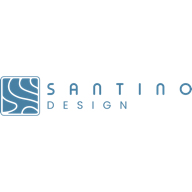
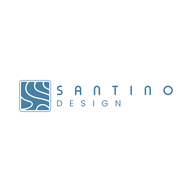
Publicación 2026-10-12 21:31

diff --git a/app.js b/app.js
@@ -188,8 +188,8 @@ async function salir() { await sb.auth.signOut(); yo = null; location.hash = '';
 window.addEventListener('hashchange', () => { if (yo) render(); });
 function barra(activa) {
   const links = yo.rol === 'operacion'
-    ? [['#/taller', 'Lista'], ['#/ruta', 'Ruta']]
-    : [['#/lista', 'Lista'], ['#/tablero', 'Tablero'], ['#/panel', 'Panel'], ['#/clientes', 'Clientes'], ['#/bandeja', 'Bandeja']];
+    ? [['#/taller', 'Lista'], ['#/ruta', 'Ruta'], ...(yo.ve_compras ? [['#/compras', 'Compras']] : [])]
+    : [['#/lista', 'Lista'], ['#/tablero', 'Tablero'], ['#/compras', 'Compras'], ['#/panel', 'Panel'], ['#/clientes', 'Clientes'], ['#/bandeja', 'Bandeja']];
   return `<div class="barra"><a class="marca" href="${links[0][0]}" title="Santino Design · Pedidos"><img src="logo.png" alt="Santino Design" class="logo-barra"></a><nav class="nav">${links.map(([h, t]) => `<a href="${h}" class="${activa === h ? 'activo' : ''}">${t}</a>`).join('')}</nav><div class="espacio"></div><span id="extra-barra" style="display:flex;gap:8px;flex-wrap:wrap;align-items:center"></span><button class="avatar" id="btn-salir" title="${esc(yo.nombre)} · salir">${esc(yo.nombre[0])}</button></div>`;
 }
 async function render() {
@@ -204,6 +204,7 @@ async function render() {
     else if (h === '#/clientes' && !esOp) await vClientes();
     else if (h === '#/bandeja' && !esOp) await vBandeja();
     else if (h === '#/ruta') await vRuta();
+    else if (h === '#/compras' && (!esOp || yo.ve_compras)) await vCompras();
     else if (h === '#/imprimir-listado') await vImprimirListado();
     else if (h === '#/taller' || esOp) await vLista();
     else if (h === '#/clave') vClave();
@@ -886,4 +887,45 @@ function activarArrastreHorizontal(env) {
   env.addEventListener('mouseup', soltar); env.addEventListener('mouseleave', soltar);
   env.addEventListener('click', ev => { if (movido) { ev.stopPropagation(); ev.preventDefault(); movido = false; } }, true);
   if (!window._flechasTabla) { window._flechasTabla = true; document.addEventListener('keydown', ev => { const t = $('#tabla'); if (!t || ev.target.closest('input,select,textarea') || !['ArrowLeft', 'ArrowRight'].includes(ev.key)) return; t.scrollLeft += ev.key === 'ArrowRight' ? 160 : -160; ev.preventDefault(); }); }
+}
+
+/* ---------- Compras (12-oct-2026, versión rápida): piezas compradas (vidrio, piedra, sillas, sofás) por proveedor ----------
+   Toda pieza con área Vidrio/compras de un pedido pendiente aparece aquí sola. Se marcan las del mismo proveedor, "Armar pedido"
+   genera el texto para WhatsApp en el formato del proveedor, y al confirmar quedan como Pedido con fecha prometida y referencia.
+   Cuando llegan: "Recibido" (un toque). Atrasadas contra la fecha prometida en rojo. Más adelante: orden de compra formal (Harold). */
+const formatoPedido = (prov, piezas) => {
+  const hoy = fecha(hoyISO(), true);
+  const med = x => x.largo_cm ? `${num(x.largo_cm)} x ${num(x.ancho_cm)} cm` : '';
+  if (prov && prov.formato === 'vidrio') return `Pedido Santino Design · ${hoy}\n` + piezas.map((x, i) => `${i + 1}) ${x.cantidad} vidrio${x.cantidad > 1 ? 's' : ''} ${nombreMaterial(x.material_cubierta)}${x.espesor_mm ? ' ' + x.espesor_mm + ' mm' : ''}, ${med(x)}${x.forma === 'CIRC' ? ' (redondo)' : x.forma === 'OVAL' ? ' (ovalado)' : ''}${x.nota_acabado ? ', ' + x.nota_acabado : ''}  [${x.numero} ${nombrePila({ cliente: x.cliente })}]`).join('\n') + `\nRetiro en taller Lo Blanco 1919, La Pintana. Gracias.`;
+  if (prov && prov.formato === 'sillas_aliwen') return `Pedido Santino Design · ${hoy}\n` + piezas.map((x, i) => `${i + 1}) ${x.cantidad} ${x.tipo_linea === 'Silla' ? 'Silla Santino' : x.descripcion}, pata ${nombreColor(x.color_estructura) || 'negra'}, tapiz ${x.color_silla || 'por definir'}, madera lenga  [${x.numero} ${nombrePila({ cliente: x.cliente })}]`).join('\n');
+  return `Pedido Santino Design · ${hoy}\n` + piezas.map((x, i) => `${i + 1}) ${x.cantidad} ${x.descripcion || x.tipo_linea}${med(x) ? ', ' + med(x) : ''}${x.color_silla ? ', ' + x.color_silla : ''}  [${x.numero} ${nombrePila({ cliente: x.cliente })}]`).join('\n');
+};
+async function vCompras() {
+  await cargarModelos();
+  const [{ data: piezas, error }, { data: provs }] = await Promise.all([sb.from('v_compras').select('*').order('fecha_entrega', { ascending: true, nullsFirst: false }), sb.from('proveedor').select('*').eq('activo', true).order('nombre')]);
+  if (error) throw error;
+  cache.compras = piezas || []; cache.proveedores = provs || [];
+  const grupos = {}; cache.compras.forEach(x => { const k = x.proveedor || x.proveedor_sugerido || 'Sin proveedor definido'; (grupos[k] = grupos[k] || []).push(x); });
+  const fila = x => `<tr class="${x.atrasado_prov ? 'atrasado' : ''}"><td><input type="checkbox" data-sel="${x.linea_id}" ${['Por pedir'].includes(x.etapa) ? '' : 'disabled'}></td><td class="num"><a href="#/pedido/${x.pedido_id}">${esc(x.numero)}</a>${x.urgente ? ' <span class="chip urgente">URGENTE</span>' : ''}</td><td>${esc(x.cliente)}</td><td>${esc(x.tipo_linea)}${x.cantidad > 1 ? ' ×' + x.cantidad : ''}</td><td>${esc(x.descripcion || '')}${x.color_silla ? ' · ' + esc(x.color_silla) : ''}</td><td class="nw">${x.largo_cm ? `${num(x.largo_cm)} x ${num(x.ancho_cm)}${x.espesor_mm ? ' · ' + x.espesor_mm + ' mm' : ''}` : ''}</td><td class="nw">${fecha(x.fecha_entrega)}</td><td class="nw"><span class="estado-pieza ${x.etapa === 'Embalado' || x.etapa === 'Embaladas' ? 'lista' : ''}">${esc(x.etapa || '')}</span>${x.fecha_prometida_prov ? `<div style="font-size:11px;color:${x.atrasado_prov ? 'var(--rojo-txt)' : 'var(--gris-2)'}">llega ${fecha(x.fecha_prometida_prov)}${x.referencia_prov ? ' · ' + esc(x.referencia_prov) : ''}</div>` : ''}</td><td>${['Pedido', 'Pedidas'].includes(x.etapa) ? `<button class="btn chico borde" data-recibido="${x.linea_id}">Recibido</button>` : ''}</td></tr>`;
+  app.innerHTML = barra('#/compras') + `<div class="sub no-imprimir"><span>Piezas que se compran, de pedidos pendientes. Marca las de un mismo proveedor y arma el pedido.</span><span style="margin-left:auto;color:var(--gris-3)">${cache.compras.length} piezas</span></div><div class="contenido" style="display:flex;flex-direction:column;gap:14px">
+    ${Object.keys(grupos).sort().map(k => { const prov = cache.proveedores.find(p => p.nombre === k); return `<section class="seccion"><div class="cab"><h2>${esc(k)}${prov && prov.que_vende ? ` <span style="font-weight:400;color:var(--gris-2);font-size:13px">· ${esc(prov.que_vende)}</span>` : ''}</h2><button class="btn chico primario" data-armar="${esc(k)}">Armar pedido con las marcadas</button></div>
+      <div class="tabla-env"><table class="lista"><thead><tr><th></th><th>N°</th><th>Cliente</th><th>Pieza</th><th>Descripción</th><th>Medida</th><th>Entrega al cliente</th><th>Etapa</th><th></th></tr></thead><tbody>${grupos[k].map(fila).join('')}</tbody></table></div></section>`; }).join('') || '<div class="seccion">No hay piezas por comprar.</div>'}
+  </div>`;
+  $$('[data-recibido]').forEach(b => b.onclick = async () => { try { await rpc('avanzar_etapa', { p_linea_id: Number(b.dataset.recibido), p_atras: false }); aviso('Recibido'); vCompras(); } catch (e) { aviso(errorDe(e), true); } });
+  $$('[data-armar]').forEach(b => b.onclick = () => {
+    const sec = b.closest('section'); const ids = $$('input[data-sel]:checked', sec).map(i => Number(i.dataset.sel));
+    if (!ids.length) return aviso('Marca al menos una pieza (las que están Por pedir)', true);
+    const piezas = cache.compras.filter(x => ids.includes(x.linea_id));
+    const nombreGrupo = b.dataset.armar; const prov0 = cache.proveedores.find(p => p.nombre === nombreGrupo);
+    const texto = formatoPedido(prov0, piezas);
+    modal(`<h2>Pedido a proveedor · ${piezas.length} pieza${piezas.length > 1 ? 's' : ''}</h2>
+      <label class="campo">Proveedor <select id="c-prov">${cache.proveedores.map(p => `<option value="${p.id}" ${prov0 && p.id === prov0.id ? 'selected' : ''}>${esc(p.nombre)}</option>`).join('')}</select></label>
+      <label class="campo">Texto para WhatsApp o correo (edítalo si hace falta) <textarea id="c-texto" style="min-height:160px;font-family:ui-monospace,monospace;font-size:12px">${esc(texto)}</textarea></label>
+      <div class="campos"><label class="campo">Fecha prometida por el proveedor <input type="date" id="c-fecha"></label><label class="campo">Referencia (N° de pedido, guía, cotización) <input id="c-ref"></label></div>
+      <div class="acciones"><button type="button" class="btn" id="c-cancelar">Cancelar</button><button type="button" class="btn" id="c-copiar">Copiar texto</button><button type="button" class="btn primario" id="c-ok">Registrar como pedido</button></div>`);
+    $('#c-cancelar').onclick = cerrarModal;
+    $('#c-copiar').onclick = async () => { try { await navigator.clipboard.writeText($('#c-texto').value); aviso('Texto copiado'); } catch (e) { aviso('No se pudo copiar: selecciona el texto y cópialo', true); } };
+    $('#c-prov').onchange = () => { const pv = cache.proveedores.find(p => p.id === Number($('#c-prov').value)); $('#c-texto').value = formatoPedido(pv, piezas); };
+    $('#c-ok').onclick = async () => { try { const n = await rpc('registrar_pedido_proveedor', { p_linea_ids: ids, p_proveedor_id: Number($('#c-prov').value), p_fecha_prometida: $('#c-fecha').value || null, p_referencia: $('#c-ref').value || null }); cerrarModal(); aviso(`${n} pieza${n > 1 ? 's' : ''} registrada${n > 1 ? 's' : ''} como pedidas`); vCompras(); } catch (e) { aviso(errorDe(e), true); } };
+  });
 }

diff --git a/index.html b/index.html
@@ -9,14 +9,14 @@
 <link rel="manifest" href="manifest.webmanifest">
 <link rel="apple-touch-icon" href="icono-192.png">
 <link rel="icon" type="image/png" href="icono-192.png">
-<link rel="stylesheet" href="styles.css?v=202610122115">
+<link rel="stylesheet" href="styles.css?v=202610122131">
 <script src="https://cdn.jsdelivr.net/npm/@supabase/supabase-js@2.45.4/dist/umd/supabase.min.js"></script>
-<script src="config.js?v=202610122115"></script>
+<script src="config.js?v=202610122131"></script>
 </head>
 <body>
 <div id="app"><div class="cargando">Cargando…</div></div>
 <div id="modal" class="modal oculto"></div>
 <div id="aviso" class="aviso oculto"></div>
-<script src="app.js?v=202610122115"></script>
+<script src="app.js?v=202610122131"></script>
 </body>
 </html>

diff --git a/styles.css b/styles.css
@@ -255,6 +255,6 @@ table.lista.compacta td.celda-lineas .l1,table.lista.compacta td.celda-lineas .l
 .tablet .etapas{max-width:340px}
 table.lista.compacta td.piezas-col{min-width:130px}
 /* Logo real de Santino Design (Harold 12-oct) */
-.logo-login{display:block;width:150px;margin:0 auto 4px}
-.logo-barra{height:34px;display:block}
-.tablet .logo-barra{height:40px}
+.logo-login{display:block;width:240px;margin:0 auto 8px}
+.logo-barra{height:30px;display:block}
+.tablet .logo-barra{height:34px}
